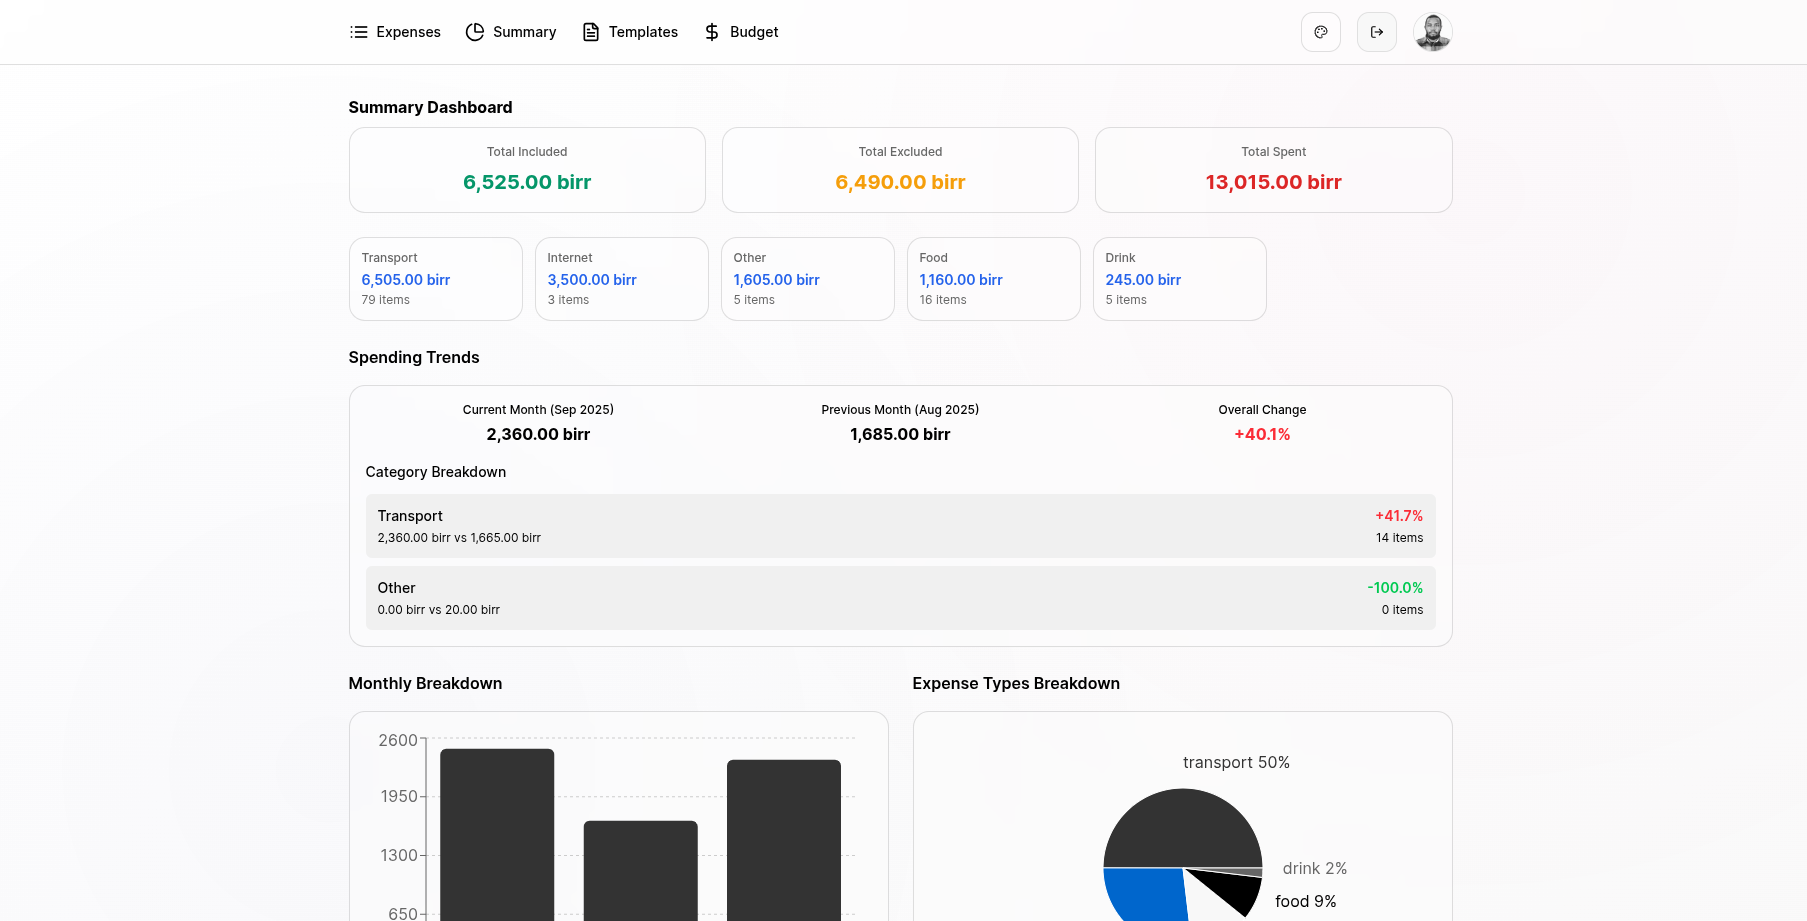
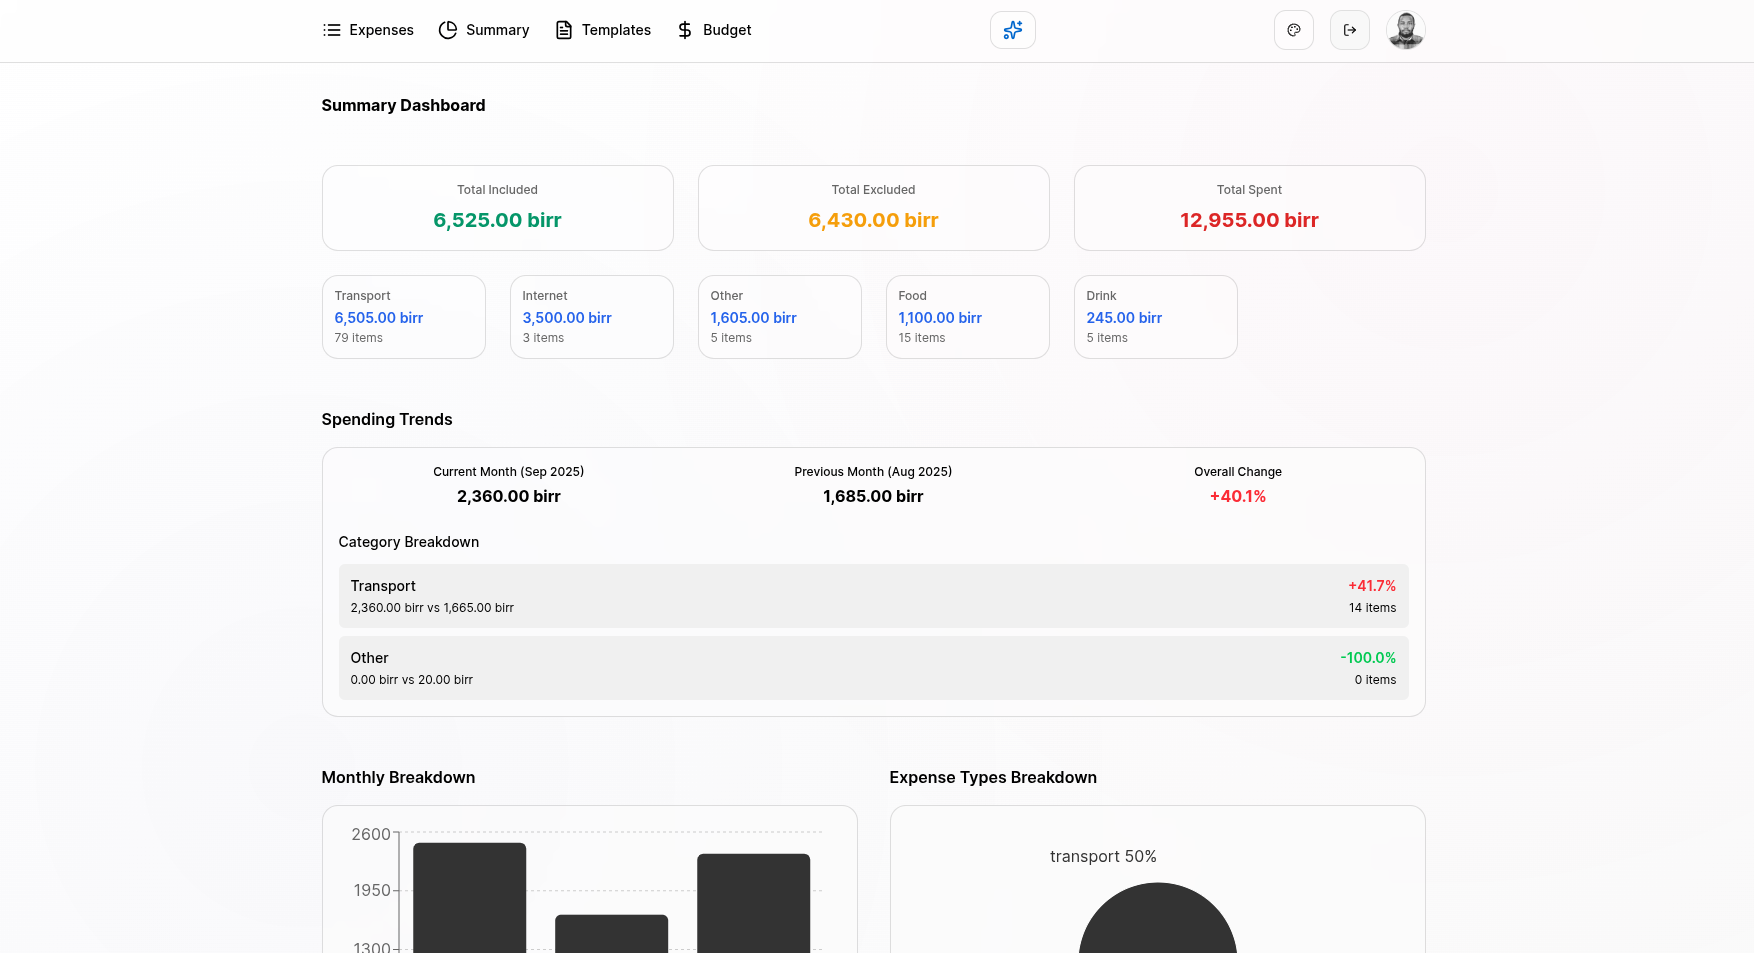
docs: Update README to include AI-powered features and enhance descriptions; add new preview images

diff --git a/README.md b/README.md
@@ -1,9 +1,10 @@
 # Personal Expense Tracker
 
-Track my expenses, manage budgets, create recurring transactions, and visualize my financial data with an intuitive and responsive interface.
+Track my expenses, manage budgets, create recurring transactions, and visualize my financial data with an intuitive and responsive interface powered by AI-assisted expense parsing.
 
 
 ![Homepage](./preview/home.png)
+![AI Modal](./preview/aimodal.png)
 ![Mini Dashboard](./preview/dashboard.png)
 ![Mini Dashboard 2](./preview/dashboard2.png)
 ![Budget Management](./preview/budget.png)
@@ -14,6 +15,8 @@ Track my expenses, manage budgets, create recurring transactions, and visualize 
 
 ## Features
 
+- **AI-Powered Expense Parsing**: Use natural language to add expenses with Google Gemini AI integration - simply describe your expenses in plain English
+- **Smart Expense Categorization**: Automatic expense type detection and intelligent categorization
 - **Expense Tracking**: Add, edit, and delete expenses with detailed categorization
 - **Recurring Expenses**: Set up automatic recurring transactions with customizable frequencies
 - **Budget Management**: Create and monitor budgets with visual progress indicators across multiple time periods (weekly, monthly, multi-month, yearly)
@@ -22,7 +25,7 @@ Track my expenses, manage budgets, create recurring transactions, and visualize 
 - **User Authentication**: Secure login system with Google OAuth integration
 - **Data Visualization**: Interactive charts and graphs for expense analysis
 - **Theme Support**: Multiple theme options for personalized experience
-- **Mobile Responsive**: Optimized interface for desktop and mobile devices
+- **Mobile Responsive**: Optimized interface for desktop and mobile devices with consistent grid layouts
 - **Real-time Updates**: Automatic expense generation for due recurring transactions
 
 ## Tech Stack
@@ -39,6 +42,7 @@ Track my expenses, manage budgets, create recurring transactions, and visualize 
 - **PapaParse** - CSV parsing and generation library
 - **jsPDF** - PDF document generation library
 - **html2canvas** - HTML to canvas conversion for PDF generation
+- **React Toastify** - Toast notification system
 
 ### Backend
 - **Node.js** - JavaScript runtime environment
@@ -48,6 +52,7 @@ Track my expenses, manage budgets, create recurring transactions, and visualize 
 - **Passport.js** - Authentication middleware with Google OAuth
 - **bcryptjs** - Password hashing
 - **CORS** - Cross-origin resource sharing
+- **Google Generative AI** - AI-powered natural language processing for expense parsing
 
 ## Prerequisites
 
@@ -86,6 +91,7 @@ Before running this application, ensure you have the following installed:
    JWT_SECRET=your-jwt-secret-key
    GOOGLE_CLIENT_ID=your-google-client-id
    GOOGLE_CLIENT_SECRET=your-google-client-secret
+   GOOGLE_API_KEY=your-google-gemini-api-key
    SESSION_SECRET=your-session-secret
    ```
 
@@ -116,6 +122,7 @@ Before running this application, ensure you have the following installed:
 
 ### Key Features Usage
 
+- **AI-Powered Expense Entry**: Describe expenses in natural language (e.g., "Lunch at restaurant for 500 birr, taxi home for 60 birr") and the AI will automatically parse and categorize them
 - **Adding Expenses**: Use the expense form to add new transactions with categories and amounts
 - **Recurring Expenses**: Set up expenses that repeat automatically (daily, weekly, monthly, yearly)
 - **Budget Tracking**: Create budgets for different time periods (weekly, monthly, multi-month, yearly) and monitor spending against limits with visual progress indicators
@@ -129,6 +136,12 @@ Before running this application, ensure you have the following installed:
 - `POST /api/auth/register` - User registration
 - `GET /api/auth/google` - Google OAuth login
 - `POST /api/auth/logout` - User logout
+
+### AI-Powered Parsing Endpoints
+- `POST /api/ai/parse-expense` - Parse natural language expense descriptions into structured data
+- `POST /api/ai/parse-template` - Parse natural language template descriptions
+- `POST /api/ai/parse-budget` - Parse natural language budget descriptions
+- `POST /api/ai/parse-recurring` - Parse natural language recurring expense descriptions
 
 ### Expense Endpoints
 - `GET /api/expenses` - Get all expenses
